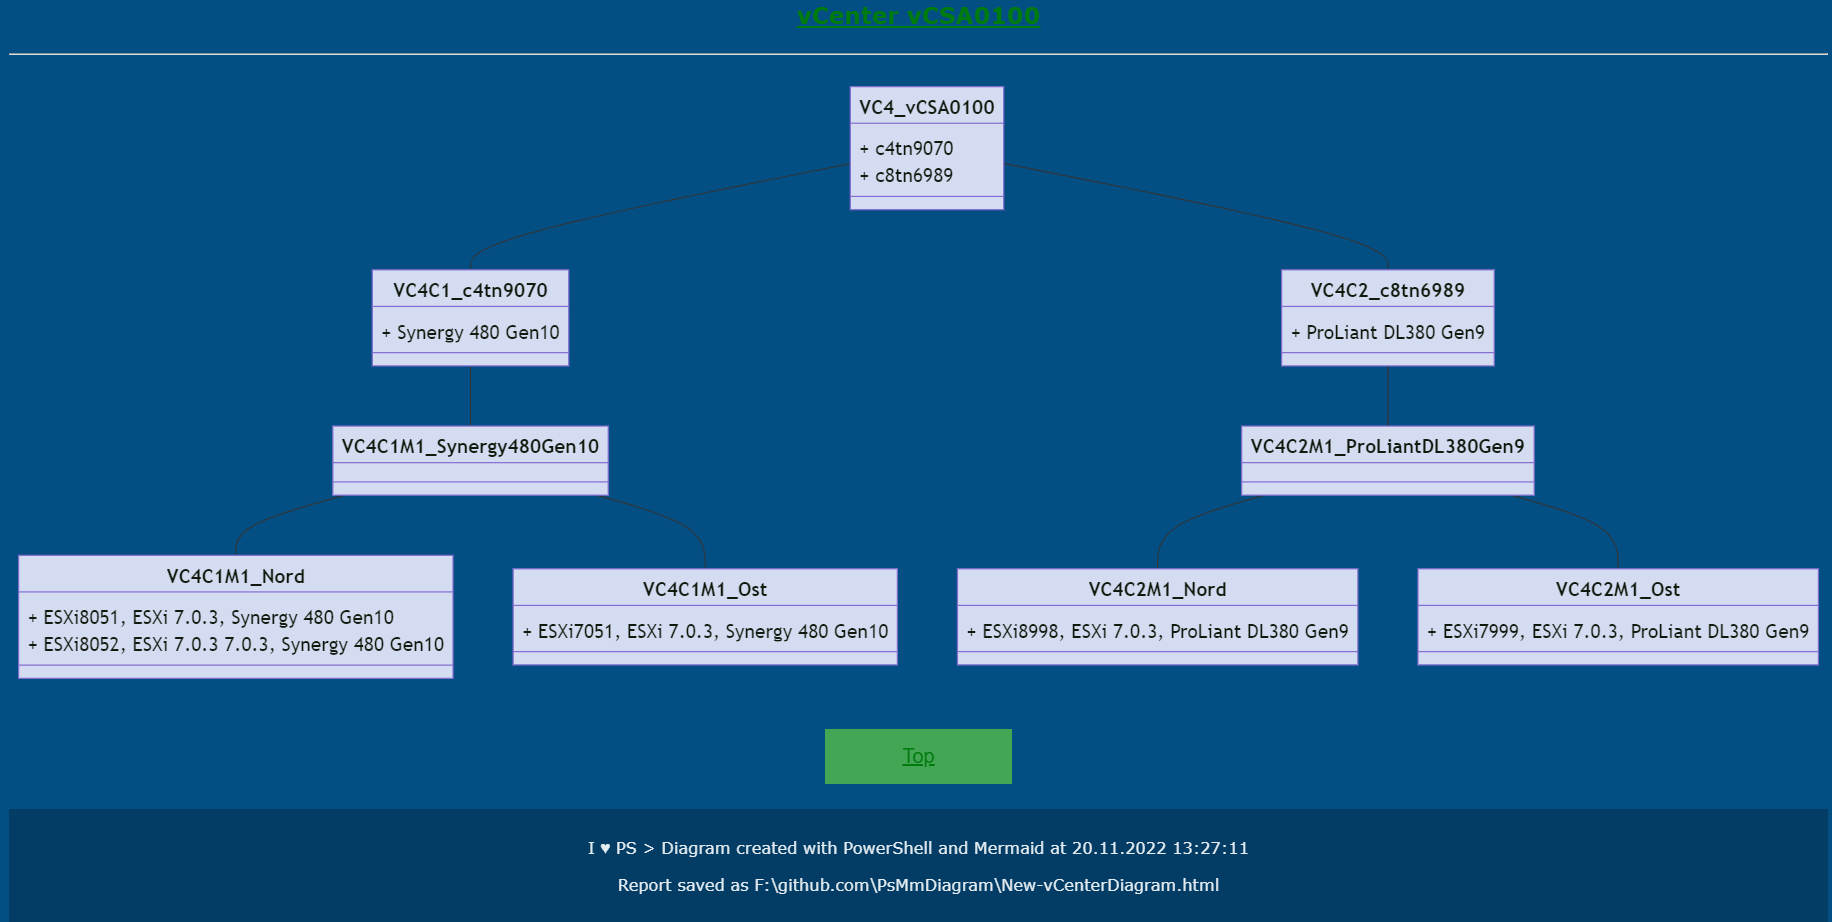
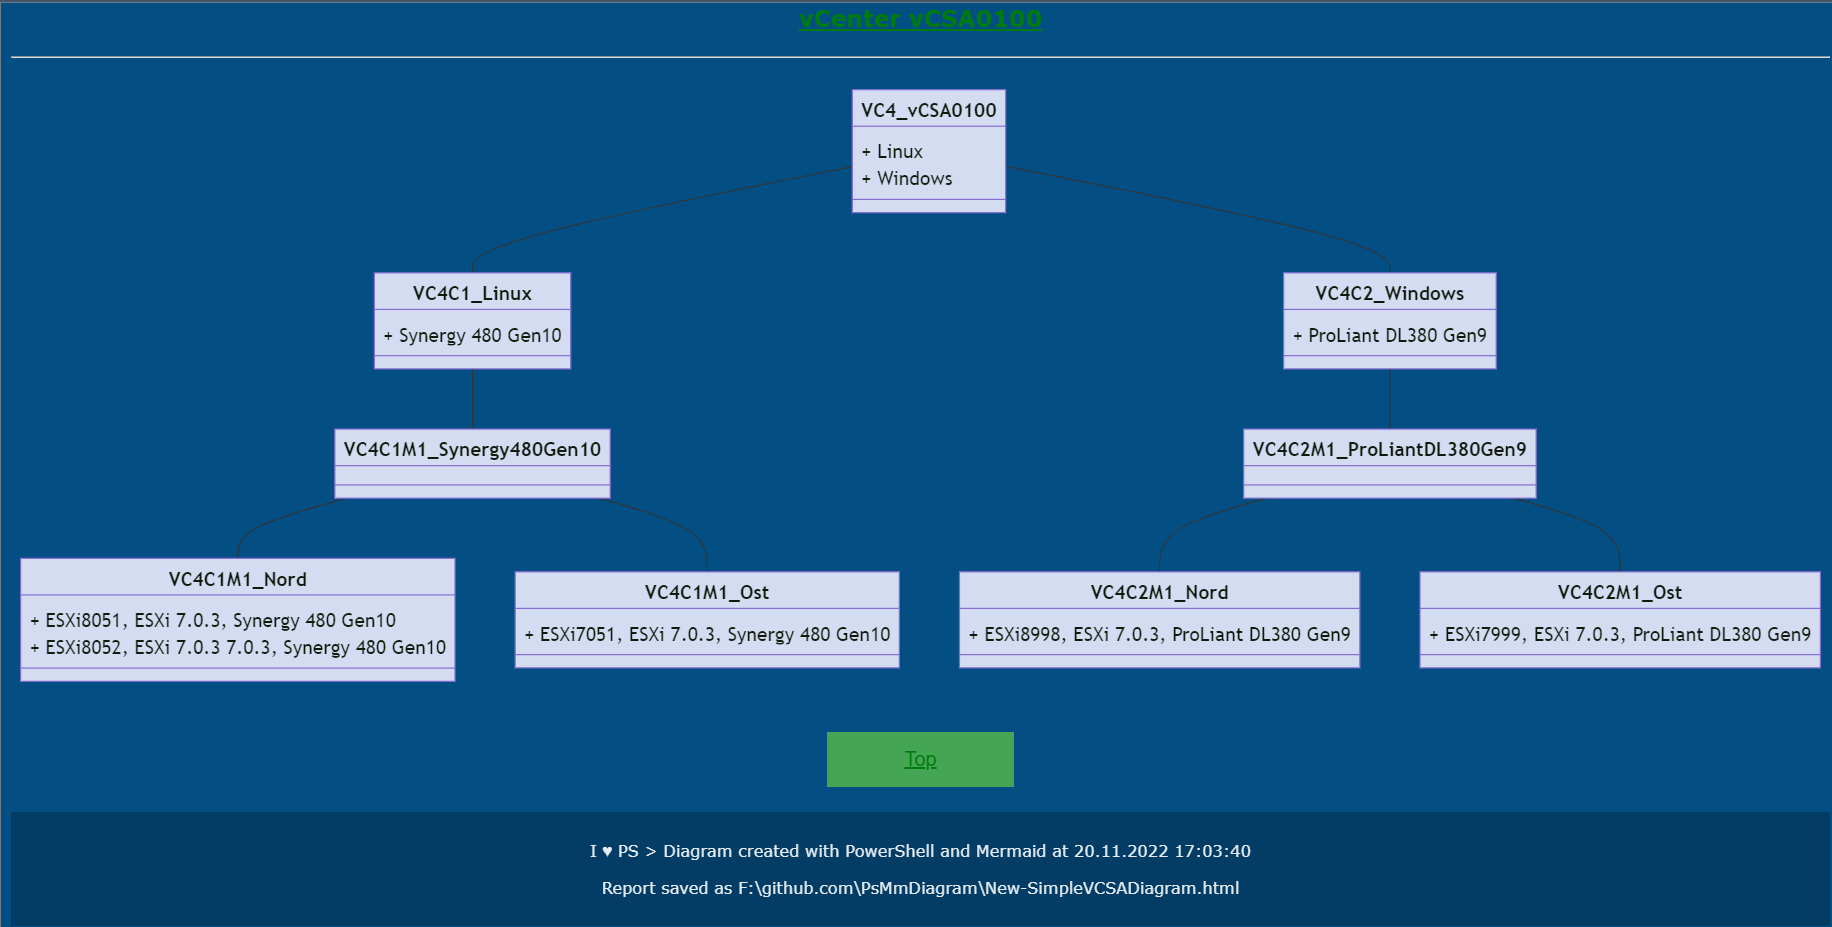
Update

diff --git a/New-SimpleVCSADiagram.html b/New-SimpleVCSADiagram.html
@@ -1,6 +1,6 @@
 <!doctype html><html lang="en">
 <head>
-    <title>New-vCenterDiagram</title>
+    <title>New-SimpleVCSADiagram</title>
     <style>
 h1 {
     text-align: center; 
@@ -108,7 +108,7 @@ a:active {
 </head>
 <body>
 <header>
-    <h1>New-vCenterDiagram</h1>
+    <h1>New-SimpleVCSADiagram</h1>
     <p>ESXiHost Inventory</p>
 </header>
 <nav>
@@ -120,10 +120,10 @@ a:active {
 <hr><h3 id='vCSA0010'><a href='https://vCSA0010.my.company.ch/ui' target='_blank'>vCenter vCSA0010</a></h3><hr>
 <div class="mermaid">
 classDiagram
-VC1_vCSA0010 -- VC1C1_DMZPlatin01
-VC1_vCSA0010 : + DMZPlatin01
-VC1C1_DMZPlatin01 : + ProLiant XL170r Gen9
-VC1C1_DMZPlatin01 -- VC1C1M1_ProLiant XL170r Gen9
+VC1_vCSA0010 -- VC1C1_Linux
+VC1_vCSA0010 : + Linux
+VC1C1_Linux : + ProLiant XL170r Gen9
+VC1C1_Linux -- VC1C1M1_ProLiant XL170r Gen9
 VC1C1M1_ProLiant XL170r Gen9 -- VC1C1M1_Nord
 VC1C1M1_Nord : + ESXi8201, ESXi 6.5, ProLiant XL170r Gen9
 VC1C1M1_Nord : + ESXi8202, ESXi 6.5, ProLiant XL170r Gen9
@@ -134,26 +134,26 @@ VC1C1M1_West : + ESXi1201, ESXi 6.5, ProLiant XL170r Gen9
 VC1C1M1_West : + ESXi1202, ESXi 6.5, ProLiant XL170r Gen9
 VC1C1M1_West : + ESXi1209, ESXi 6.7, ProLiant XL170r Gen9
 VC1C1M1_West : + ESXi1220, ESXi 6.7, ProLiant XL170r Gen9
-VC1_vCSA0010 -- VC1C2_FinPlatin01
-VC1_vCSA0010 : + FinPlatin01
-VC1C2_FinPlatin01 : + ProLiant XL170r Gen9
-VC1C2_FinPlatin01 -- VC1C2M1_ProLiant XL170r Gen9
-VC1C2M1_ProLiant XL170r Gen9 -- VC1C2M1_Nord
-VC1C2M1_Nord : + ESXi8201, ESXi 6.5, ProLiant XL170r Gen9
-VC1C2M1_Nord : + ESXi8202, ESXi 6.5, ProLiant XL170r Gen9
-VC1C2M1_Nord : + ESXi8218, ESXi 6.7, ProLiant XL170r Gen9
-VC1C2M1_Nord : + ESXi8220, ESXi 6.7, ProLiant XL170r Gen9
-VC1C2M1_ProLiant XL170r Gen9 -- VC1C2M1_West
-VC1C2M1_West : + ESXi1201, ESXi 6.5, ProLiant XL170r Gen9
-VC1C2M1_West : + ESXi1202, ESXi 6.5, ProLiant XL170r Gen9
-VC1C2M1_West : + ESXi1209, ESXi 6.7, ProLiant XL170r Gen9
-VC1C2M1_West : + ESXi1220, ESXi 6.7, ProLiant XL170r Gen9
-VC1_vCSA0010 -- VC1C3_zDMZTransfer
-VC1_vCSA0010 : + z-DMZ-Transfer
-VC1C3_zDMZTransfer : + XH620 V3
-VC1C3_zDMZTransfer -- VC1C3M1_XH620 V3
-VC1C3M1_XH620 V3 -- VC1C3M1_West
-VC1C3M1_West : + ESXi1994, ESXi 6.7, XH620 V3
+VC1_vCSA0010 -- VC1C2_Transfer
+VC1_vCSA0010 : + Transfer
+VC1C2_Transfer : + XH620 V3
+VC1C2_Transfer -- VC1C2M1_XH620 V3
+VC1C2M1_XH620 V3 -- VC1C2M1_West
+VC1C2M1_West : + ESXi1994, ESXi 6.7, XH620 V3
+VC1_vCSA0010 -- VC1C3_Windows
+VC1_vCSA0010 : + Windows
+VC1C3_Windows : + ProLiant XL170r Gen9
+VC1C3_Windows -- VC1C3M1_ProLiant XL170r Gen9
+VC1C3M1_ProLiant XL170r Gen9 -- VC1C3M1_Nord
+VC1C3M1_Nord : + ESXi8201, ESXi 6.5, ProLiant XL170r Gen9
+VC1C3M1_Nord : + ESXi8202, ESXi 6.5, ProLiant XL170r Gen9
+VC1C3M1_Nord : + ESXi8218, ESXi 6.7, ProLiant XL170r Gen9
+VC1C3M1_Nord : + ESXi8220, ESXi 6.7, ProLiant XL170r Gen9
+VC1C3M1_ProLiant XL170r Gen9 -- VC1C3M1_West
+VC1C3M1_West : + ESXi1201, ESXi 6.5, ProLiant XL170r Gen9
+VC1C3M1_West : + ESXi1202, ESXi 6.5, ProLiant XL170r Gen9
+VC1C3M1_West : + ESXi1209, ESXi 6.7, ProLiant XL170r Gen9
+VC1C3M1_West : + ESXi1220, ESXi 6.7, ProLiant XL170r Gen9
 </div><p><button class="button"><a href="#">Top</a></button></p>
 <hr><h3 id='vCSA0020'><a href='https://vCSA0020.my.company.ch/ui' target='_blank'>vCenter vCSA0020</a></h3><hr>
 <div class="mermaid">
@@ -168,8 +168,8 @@ VC2C1M1_Nord : + ESXi8903, ESXi 6.7, ProLiant DL380 Gen10
 VC2C1M1_ProLiant DL380 Gen10 -- VC2C1M1_Ost
 VC2C1M1_Ost : + ESXi7902, ESXi 6.7, ProLiant DL380 Gen10
 VC2C1M1_Ost : + ESXi7903, ESXi 6.7, ProLiant DL380 Gen10
-VC2C1M1_Ost : + ESXi7904, ESXi 6.7, ProLiant DL380 Gen10
 VC2C1M1_ProLiant DL380 Gen10 -- VC2C1M1_West
+VC2C1M1_West : + ESXi1204, ESXi 6.7, ProLiant DL380 Gen10
 VC2C1M1_West : + ESXi1902, ESXi 6.7, ProLiant DL380 Gen10
 </div><p><button class="button"><a href="#">Top</a></button></p>
 <hr><h3 id='vCSA0021'><a href='https://vCSA0021.my.company.ch/ui' target='_blank'>vCenter vCSA0021</a></h3><hr>
@@ -187,27 +187,27 @@ VC3C1M1_Ost : + ESXi7912, ESXi 6.7, ProLiant DL380 Gen10
 <hr><h3 id='vCSA0100'><a href='https://vCSA0100.my.company.ch/ui' target='_blank'>vCenter vCSA0100</a></h3><hr>
 <div class="mermaid">
 classDiagram
-VC4_vCSA0100 -- VC4C1_c4tn9070
-VC4_vCSA0100 : + c4tn9070
-VC4C1_c4tn9070 : + Synergy 480 Gen10
-VC4C1_c4tn9070 -- VC4C1M1_Synergy 480 Gen10
+VC4_vCSA0100 -- VC4C1_Linux
+VC4_vCSA0100 : + Linux
+VC4C1_Linux : + Synergy 480 Gen10
+VC4C1_Linux -- VC4C1M1_Synergy 480 Gen10
 VC4C1M1_Synergy 480 Gen10 -- VC4C1M1_Nord
 VC4C1M1_Nord : + ESXi8051, ESXi 7.0.3, Synergy 480 Gen10
 VC4C1M1_Nord : + ESXi8052, ESXi 7.0.3 7.0.3, Synergy 480 Gen10
 VC4C1M1_Synergy 480 Gen10 -- VC4C1M1_Ost
 VC4C1M1_Ost : + ESXi7051, ESXi 7.0.3, Synergy 480 Gen10
-VC4_vCSA0100 -- VC4C2_c8tn6989
-VC4_vCSA0100 : + c8tn6989
-VC4C2_c8tn6989 : + ProLiant DL380 Gen9
-VC4C2_c8tn6989 -- VC4C2M1_ProLiant DL380 Gen9
+VC4_vCSA0100 -- VC4C2_Windows
+VC4_vCSA0100 : + Windows
+VC4C2_Windows : + ProLiant DL380 Gen9
+VC4C2_Windows -- VC4C2M1_ProLiant DL380 Gen9
 VC4C2M1_ProLiant DL380 Gen9 -- VC4C2M1_Nord
 VC4C2M1_Nord : + ESXi8998, ESXi 7.0.3, ProLiant DL380 Gen9
 VC4C2M1_ProLiant DL380 Gen9 -- VC4C2M1_Ost
 VC4C2M1_Ost : + ESXi7999, ESXi 7.0.3, ProLiant DL380 Gen9
 </div><p><button class="button"><a href="#">Top</a></button></p>
 <footer>
-    <p>I ♥ PS > Diagram created with PowerShell and Mermaid at 20.11.2022 13:27:11</p>
-    <p>Report saved as F:\github.com\PsMmDiagram\New-vCenterDiagram.html</p>
+    <p>I ♥ PS > Diagram created with PowerShell and Mermaid at 20.11.2022 17:03:40</p>
+    <p>Report saved as F:\github.com\PsMmDiagram\New-SimpleVCSADiagram.html</p>
 </footer>
 
 </body>

diff --git a/New-SimpleVCSADiagram.md b/New-SimpleVCSADiagram.md
@@ -1,9 +1,9 @@
 #  - ESXiHost Inventory
 
-- [vCenter vCSA0010](#vcenter-vCSA0010)
-- [vCenter vCSA0020](#vcenter-vCSA0020)
-- [vCenter vCSA0021](#vcenter-vCSA0021)
-- [vCenter vCSA0100](#vcenter-vCSA0100)
+ - [vCenter vCSA0010](#vcenter-vcsa0010)
+ - [vCenter vCSA0020](#vcenter-vcsa0020)
+ - [vCenter vCSA0021](#vcenter-vcsa0021)
+ - [vCenter vCSA0100](#vcenter-vcsa0100)
 ---
 
 ## [vCenter vCSA0010](https://vCSA0010.my.company.ch/ui)
@@ -12,10 +12,10 @@
 
 ````mermaid
 classDiagram
-VC1_vCSA0010 -- VC1C1_DMZPlatin01
-VC1_vCSA0010 : + DMZPlatin01
-VC1C1_DMZPlatin01 : + ProLiant XL170r Gen9
-VC1C1_DMZPlatin01 -- VC1C1M1_ProLiant XL170r Gen9
+VC1_vCSA0010 -- VC1C1_Linux
+VC1_vCSA0010 : + Linux
+VC1C1_Linux : + ProLiant XL170r Gen9
+VC1C1_Linux -- VC1C1M1_ProLiant XL170r Gen9
 VC1C1M1_ProLiant XL170r Gen9 -- VC1C1M1_Nord
 VC1C1M1_Nord : + ESXi8201, ESXi 6.5, ProLiant XL170r Gen9
 VC1C1M1_Nord : + ESXi8202, ESXi 6.5, ProLiant XL170r Gen9
@@ -26,26 +26,26 @@ VC1C1M1_West : + ESXi1201, ESXi 6.5, ProLiant XL170r Gen9
 VC1C1M1_West : + ESXi1202, ESXi 6.5, ProLiant XL170r Gen9
 VC1C1M1_West : + ESXi1209, ESXi 6.7, ProLiant XL170r Gen9
 VC1C1M1_West : + ESXi1220, ESXi 6.7, ProLiant XL170r Gen9
-VC1_vCSA0010 -- VC1C2_FinPlatin01
-VC1_vCSA0010 : + FinPlatin01
-VC1C2_FinPlatin01 : + ProLiant XL170r Gen9
-VC1C2_FinPlatin01 -- VC1C2M1_ProLiant XL170r Gen9
-VC1C2M1_ProLiant XL170r Gen9 -- VC1C2M1_Nord
-VC1C2M1_Nord : + ESXi8201, ESXi 6.5, ProLiant XL170r Gen9
-VC1C2M1_Nord : + ESXi8202, ESXi 6.5, ProLiant XL170r Gen9
-VC1C2M1_Nord : + ESXi8218, ESXi 6.7, ProLiant XL170r Gen9
-VC1C2M1_Nord : + ESXi8220, ESXi 6.7, ProLiant XL170r Gen9
-VC1C2M1_ProLiant XL170r Gen9 -- VC1C2M1_West
-VC1C2M1_West : + ESXi1201, ESXi 6.5, ProLiant XL170r Gen9
-VC1C2M1_West : + ESXi1202, ESXi 6.5, ProLiant XL170r Gen9
-VC1C2M1_West : + ESXi1209, ESXi 6.7, ProLiant XL170r Gen9
-VC1C2M1_West : + ESXi1220, ESXi 6.7, ProLiant XL170r Gen9
-VC1_vCSA0010 -- VC1C3_zDMZTransfer
-VC1_vCSA0010 : + z-DMZ-Transfer
-VC1C3_zDMZTransfer : + XH620 V3
-VC1C3_zDMZTransfer -- VC1C3M1_XH620 V3
-VC1C3M1_XH620 V3 -- VC1C3M1_West
-VC1C3M1_West : + ESXi1994, ESXi 6.7, XH620 V3
+VC1_vCSA0010 -- VC1C2_Transfer
+VC1_vCSA0010 : + Transfer
+VC1C2_Transfer : + XH620 V3
+VC1C2_Transfer -- VC1C2M1_XH620 V3
+VC1C2M1_XH620 V3 -- VC1C2M1_West
+VC1C2M1_West : o ESXi1994, ESXi 6.7, XH620 V3
+VC1_vCSA0010 -- VC1C3_Windows
+VC1_vCSA0010 : + Windows
+VC1C3_Windows : + ProLiant XL170r Gen9
+VC1C3_Windows -- VC1C3M1_ProLiant XL170r Gen9
+VC1C3M1_ProLiant XL170r Gen9 -- VC1C3M1_Nord
+VC1C3M1_Nord : + ESXi8201, ESXi 6.5, ProLiant XL170r Gen9
+VC1C3M1_Nord : + ESXi8202, ESXi 6.5, ProLiant XL170r Gen9
+VC1C3M1_Nord : + ESXi8218, ESXi 6.7, ProLiant XL170r Gen9
+VC1C3M1_Nord : + ESXi8220, ESXi 6.7, ProLiant XL170r Gen9
+VC1C3M1_ProLiant XL170r Gen9 -- VC1C3M1_West
+VC1C3M1_West : + ESXi1201, ESXi 6.5, ProLiant XL170r Gen9
+VC1C3M1_West : + ESXi1202, ESXi 6.5, ProLiant XL170r Gen9
+VC1C3M1_West : + ESXi1209, ESXi 6.7, ProLiant XL170r Gen9
+VC1C3M1_West : + ESXi1220, ESXi 6.7, ProLiant XL170r Gen9
 ````
 
 [Top](#)
@@ -68,8 +68,8 @@ VC2C1M1_Nord : + ESXi8903, ESXi 6.7, ProLiant DL380 Gen10
 VC2C1M1_ProLiant DL380 Gen10 -- VC2C1M1_Ost
 VC2C1M1_Ost : + ESXi7902, ESXi 6.7, ProLiant DL380 Gen10
 VC2C1M1_Ost : + ESXi7903, ESXi 6.7, ProLiant DL380 Gen10
-VC2C1M1_Ost : + ESXi7904, ESXi 6.7, ProLiant DL380 Gen10
 VC2C1M1_ProLiant DL380 Gen10 -- VC2C1M1_West
+VC2C1M1_West : + ESXi1204, ESXi 6.7, ProLiant DL380 Gen10
 VC2C1M1_West : + ESXi1902, ESXi 6.7, ProLiant DL380 Gen10
 ````
 
@@ -103,19 +103,19 @@ VC3C1M1_Ost : + ESXi7912, ESXi 6.7, ProLiant DL380 Gen10
 
 ````mermaid
 classDiagram
-VC4_vCSA0100 -- VC4C1_c4tn9070
-VC4_vCSA0100 : + c4tn9070
-VC4C1_c4tn9070 : + Synergy 480 Gen10
-VC4C1_c4tn9070 -- VC4C1M1_Synergy 480 Gen10
+VC4_vCSA0100 -- VC4C1_Linux
+VC4_vCSA0100 : + Linux
+VC4C1_Linux : + Synergy 480 Gen10
+VC4C1_Linux -- VC4C1M1_Synergy 480 Gen10
 VC4C1M1_Synergy 480 Gen10 -- VC4C1M1_Nord
 VC4C1M1_Nord : + ESXi8051, ESXi 7.0.3, Synergy 480 Gen10
 VC4C1M1_Nord : + ESXi8052, ESXi 7.0.3 7.0.3, Synergy 480 Gen10
 VC4C1M1_Synergy 480 Gen10 -- VC4C1M1_Ost
 VC4C1M1_Ost : + ESXi7051, ESXi 7.0.3, Synergy 480 Gen10
-VC4_vCSA0100 -- VC4C2_c8tn6989
-VC4_vCSA0100 : + c8tn6989
-VC4C2_c8tn6989 : + ProLiant DL380 Gen9
-VC4C2_c8tn6989 -- VC4C2M1_ProLiant DL380 Gen9
+VC4_vCSA0100 -- VC4C2_Windows
+VC4_vCSA0100 : + Windows
+VC4C2_Windows : + ProLiant DL380 Gen9
+VC4C2_Windows -- VC4C2M1_ProLiant DL380 Gen9
 VC4C2M1_ProLiant DL380 Gen9 -- VC4C2M1_Nord
 VC4C2M1_Nord : + ESXi8998, ESXi 7.0.3, ProLiant DL380 Gen9
 VC4C2M1_ProLiant DL380 Gen9 -- VC4C2M1_Ost
@@ -126,6 +126,6 @@ VC4C2M1_Ost : + ESXi7999, ESXi 7.0.3, ProLiant DL380 Gen9
 
 ---
 
-I ♥ PS > Diagram created with PowerShell and Mermaid at 20.11.2022 13:25:30
+I ♥ PS > Diagram created with PowerShell and Mermaid at 20.11.2022 17:20:22
 
 ---

diff --git a/README.md b/README.md
@@ -2,7 +2,7 @@
 
 Create Mermaid Diagram with PowerShell
 
-## Class Diagram
+## Create a simple Class Diagram
 
 Create a Class Diagram from a CSV-File base on a VMware ESXiHost Inventory.
 
@@ -10,8 +10,8 @@ Create a Class Diagram from a CSV-File base on a VMware ESXiHost Inventory.
 
 Import-Csv with the Semicolon-Delimiter and create the Mermaid-Diagram with the content of the CSV and the Title 'ESXiHost Inventory' as Markdown:
 
-````
-.\bin\New-vCenterDiagram.ps1 -InputObject (Import-Csv -Path ..\data\inventory.csv -Delimiter ';') -Title 'ESXiHost Inventory'
+````PowerShell
+.\bin\New-SimpleVCSADiagram.ps1 -InputObject (Import-Csv -Path ..\data\inventory.csv -Delimiter ';') -Title 'ESXiHost Inventory'
 ````
 
 ![New-vCenterDiagram](./img/PsMmDiagram-md.png)
@@ -20,8 +20,16 @@ Import-Csv with the Semicolon-Delimiter and create the Mermaid-Diagram with the 
 
 Import-Csv with the Semicolon-Delimiter and create the Mermaid-Diagram with the content of the CSV and the Title 'ESXiHost Inventory' as Html.
 
-````
-.\bin\New-vCenterDiagram.ps1 InputObject (Import-Csv -Path ..\data\inventory.csv -Delimiter ';') -Title 'ESXiHost Inventory' -Title 'ESXiHost Inventory' -Html
+CSS and Html is inside the Html-Page and the Computer must have access to the Internet to "https://cdnjs.cloudflare.com/ajax/libs/mermaid/8.13.4/mermaid.min.js" to format the Mermaid-Diagrams.
+
+````PowerShell
+.\bin\New-SimpleVCSADiagram.ps1 InputObject (Import-Csv -Path ..\data\inventory.csv -Delimiter ';') -Title 'ESXiHost Inventory' -Title 'ESXiHost Inventory' -Html
 ````
 
 ![New-vCenterDiagram](./img/PsMmDiagram-html.png)
+
+## Create a Class Diagramm with a BootStrap-Page
+
+To Do
+
+[Top](#)
